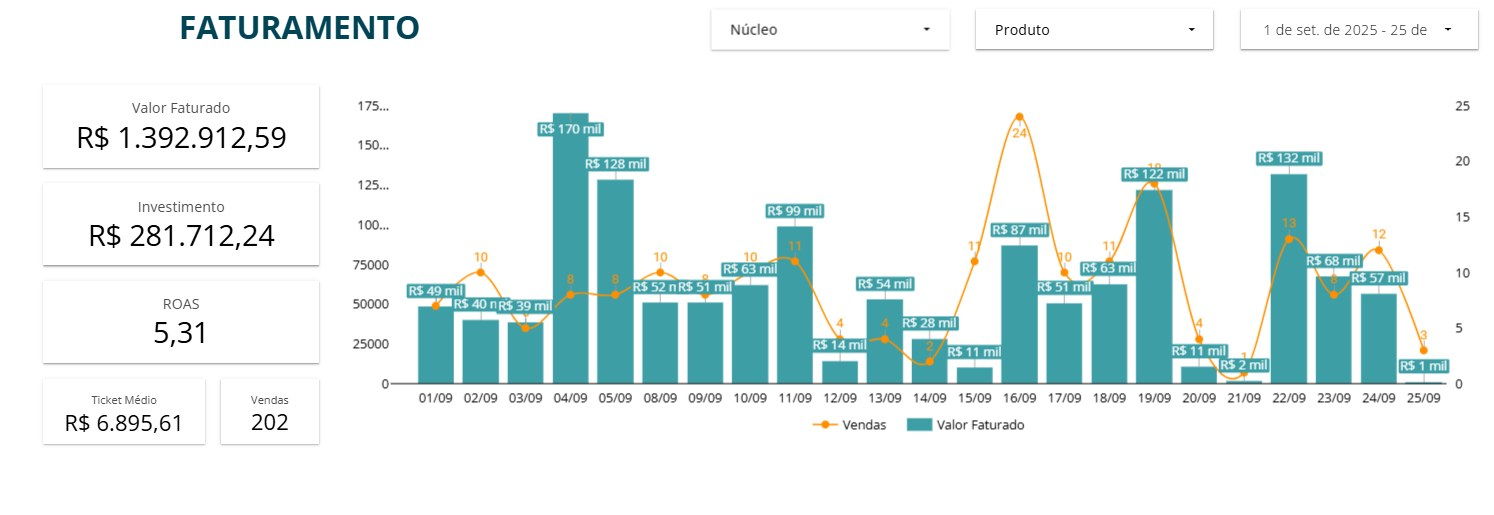
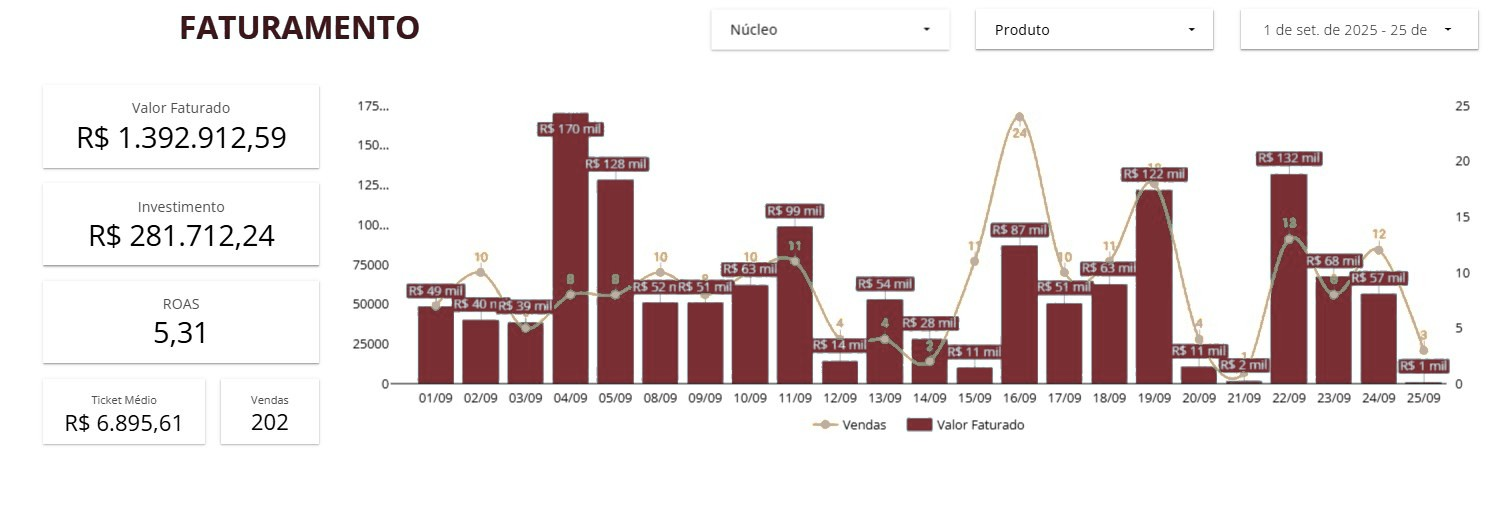
Dashboard de faturamento nas cores da marca

diff --git a/index.html b/index.html
@@ -1138,7 +1138,7 @@ select.input{appearance:none;-webkit-appearance:none;padding-right:40px;backgrou
             <div class="mock-kpis"><div><span>Faturado</span><b>R$ 1,39 mi</b></div><div><span>ROAS</span><b>5,31</b></div><div><span>Vendas</span><b>202</b></div></div>
             <div class="mock-chart"><span class="mock-cap">Faturamento por dia · set/25</span><svg viewBox="0 0 300 80" preserveAspectRatio="none"><rect x="2.0" y="61.0" width="9.0" height="19.0" rx="1.5" fill="rgba(122,46,51,.35)"/><rect x="15.0" y="64.5" width="9.0" height="15.5" rx="1.5" fill="rgba(122,46,51,.35)"/><rect x="28.1" y="64.9" width="9.0" height="15.1" rx="1.5" fill="rgba(122,46,51,.35)"/><rect x="41.1" y="14.0" width="9.0" height="66.0" rx="1.5" fill="#7A2E33"/><rect x="54.2" y="30.3" width="9.0" height="49.7" rx="1.5" fill="#7A2E33"/><rect x="67.2" y="59.8" width="9.0" height="20.2" rx="1.5" fill="rgba(122,46,51,.35)"/><rect x="80.3" y="60.2" width="9.0" height="19.8" rx="1.5" fill="rgba(122,46,51,.35)"/><rect x="93.3" y="55.5" width="9.0" height="24.5" rx="1.5" fill="rgba(122,46,51,.35)"/><rect x="106.3" y="41.6" width="9.0" height="38.4" rx="1.5" fill="rgba(122,46,51,.35)"/><rect x="119.4" y="74.6" width="9.0" height="5.4" rx="1.5" fill="rgba(122,46,51,.35)"/><rect x="132.4" y="59.0" width="9.0" height="21.0" rx="1.5" fill="rgba(122,46,51,.35)"/><rect x="145.5" y="69.1" width="9.0" height="10.9" rx="1.5" fill="rgba(122,46,51,.35)"/><rect x="158.5" y="75.7" width="9.0" height="4.3" rx="1.5" fill="rgba(122,46,51,.35)"/><rect x="171.6" y="46.2" width="9.0" height="33.8" rx="1.5" fill="rgba(122,46,51,.35)"/><rect x="184.6" y="60.2" width="9.0" height="19.8" rx="1.5" fill="rgba(122,46,51,.35)"/><rect x="197.7" y="55.5" width="9.0" height="24.5" rx="1.5" fill="rgba(122,46,51,.35)"/><rect x="210.7" y="32.6" width="9.0" height="47.4" rx="1.5" fill="#7A2E33"/><rect x="223.7" y="75.7" width="9.0" height="4.3" rx="1.5" fill="rgba(122,46,51,.35)"/><rect x="236.8" y="79.2" width="9.0" height="0.8" rx="1.5" fill="rgba(122,46,51,.35)"/><rect x="249.8" y="28.8" width="9.0" height="51.2" rx="1.5" fill="#7A2E33"/><rect x="262.9" y="53.6" width="9.0" height="26.4" rx="1.5" fill="rgba(122,46,51,.35)"/><rect x="275.9" y="57.9" width="9.0" height="22.1" rx="1.5" fill="rgba(122,46,51,.35)"/><rect x="289.0" y="79.6" width="9.0" height="0.4" rx="1.5" fill="rgba(122,46,51,.35)"/></svg></div>
           </div>
-          <button class="print-btn" type="button" data-print="prints/dash-faturamento.jpg" data-caption="Print real do dashboard de faturamento (logo do cliente removido)"><svg class="ic" viewBox="0 0 16 16" fill="none" stroke="currentColor" stroke-width="1.5" aria-hidden="true"><circle cx="7" cy="7" r="4.5"/><path d="M10.5 10.5L14 14"/></svg>Ver print real</button>
+          <button class="print-btn" type="button" data-print="prints/dash-faturamento.jpg" data-caption="Print real do dashboard de faturamento (logo do cliente removido e cores adaptadas à nossa identidade; números sem alteração)"><svg class="ic" viewBox="0 0 16 16" fill="none" stroke="currentColor" stroke-width="1.5" aria-hidden="true"><circle cx="7" cy="7" r="4.5"/><path d="M10.5 10.5L14 14"/></svg>Ver print real</button>
         </div>
         <div class="case-body">
           <span class="case-seg">Educação · Pós-graduação</span>
